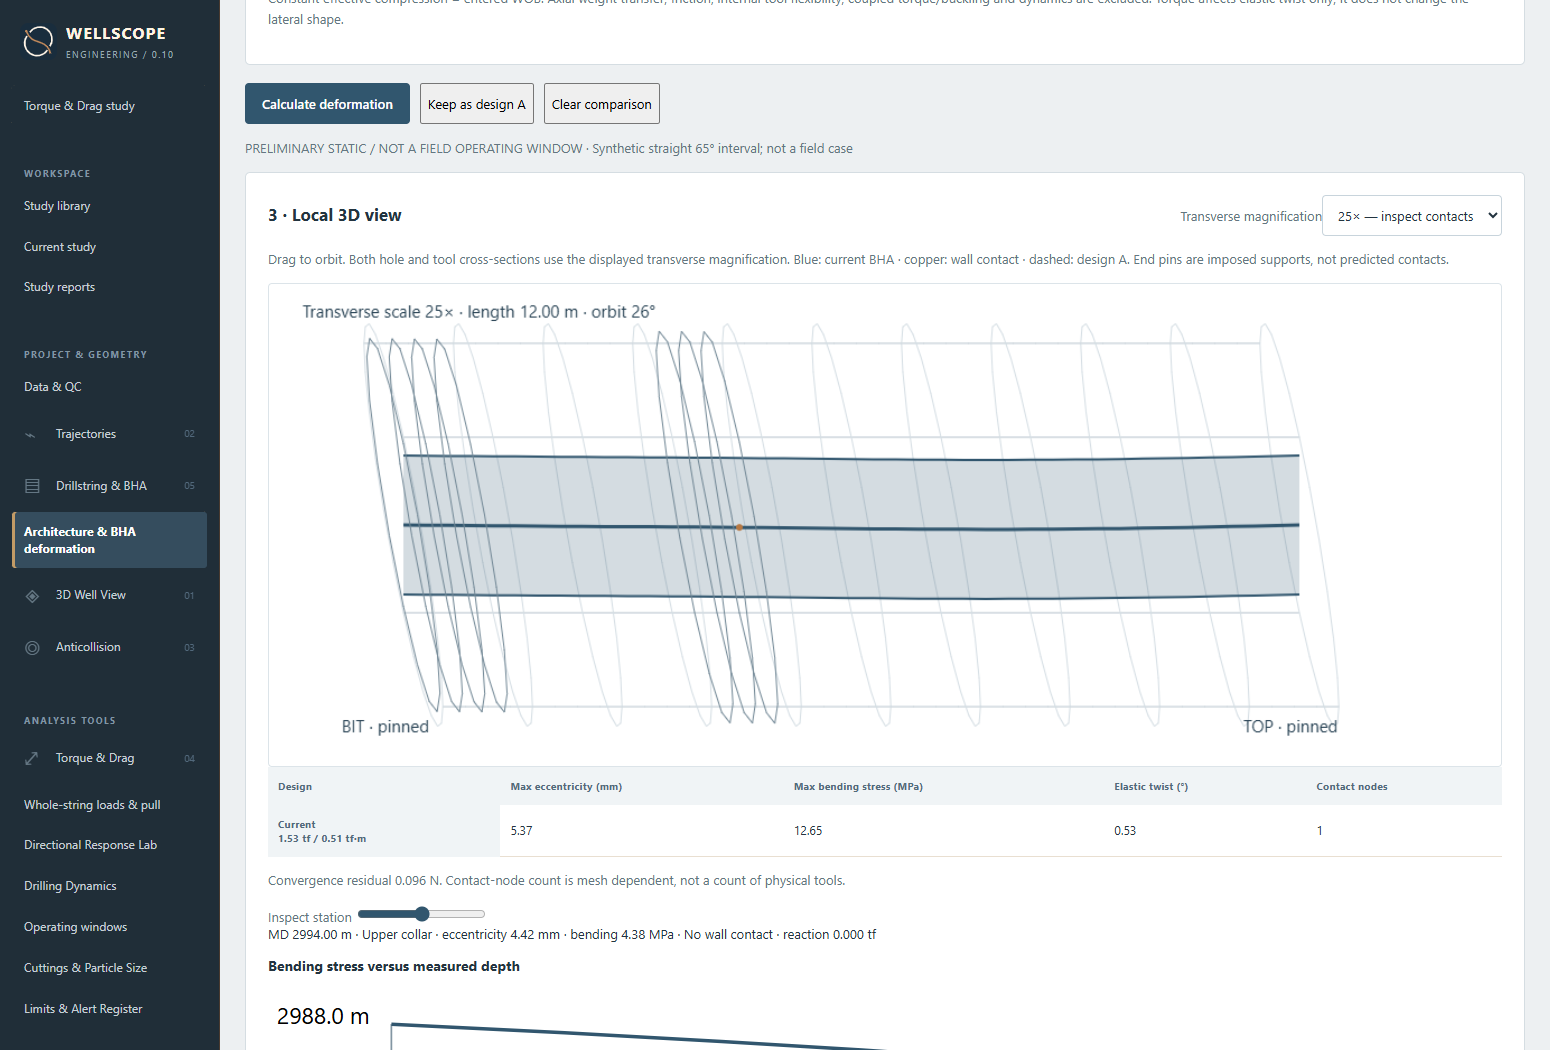
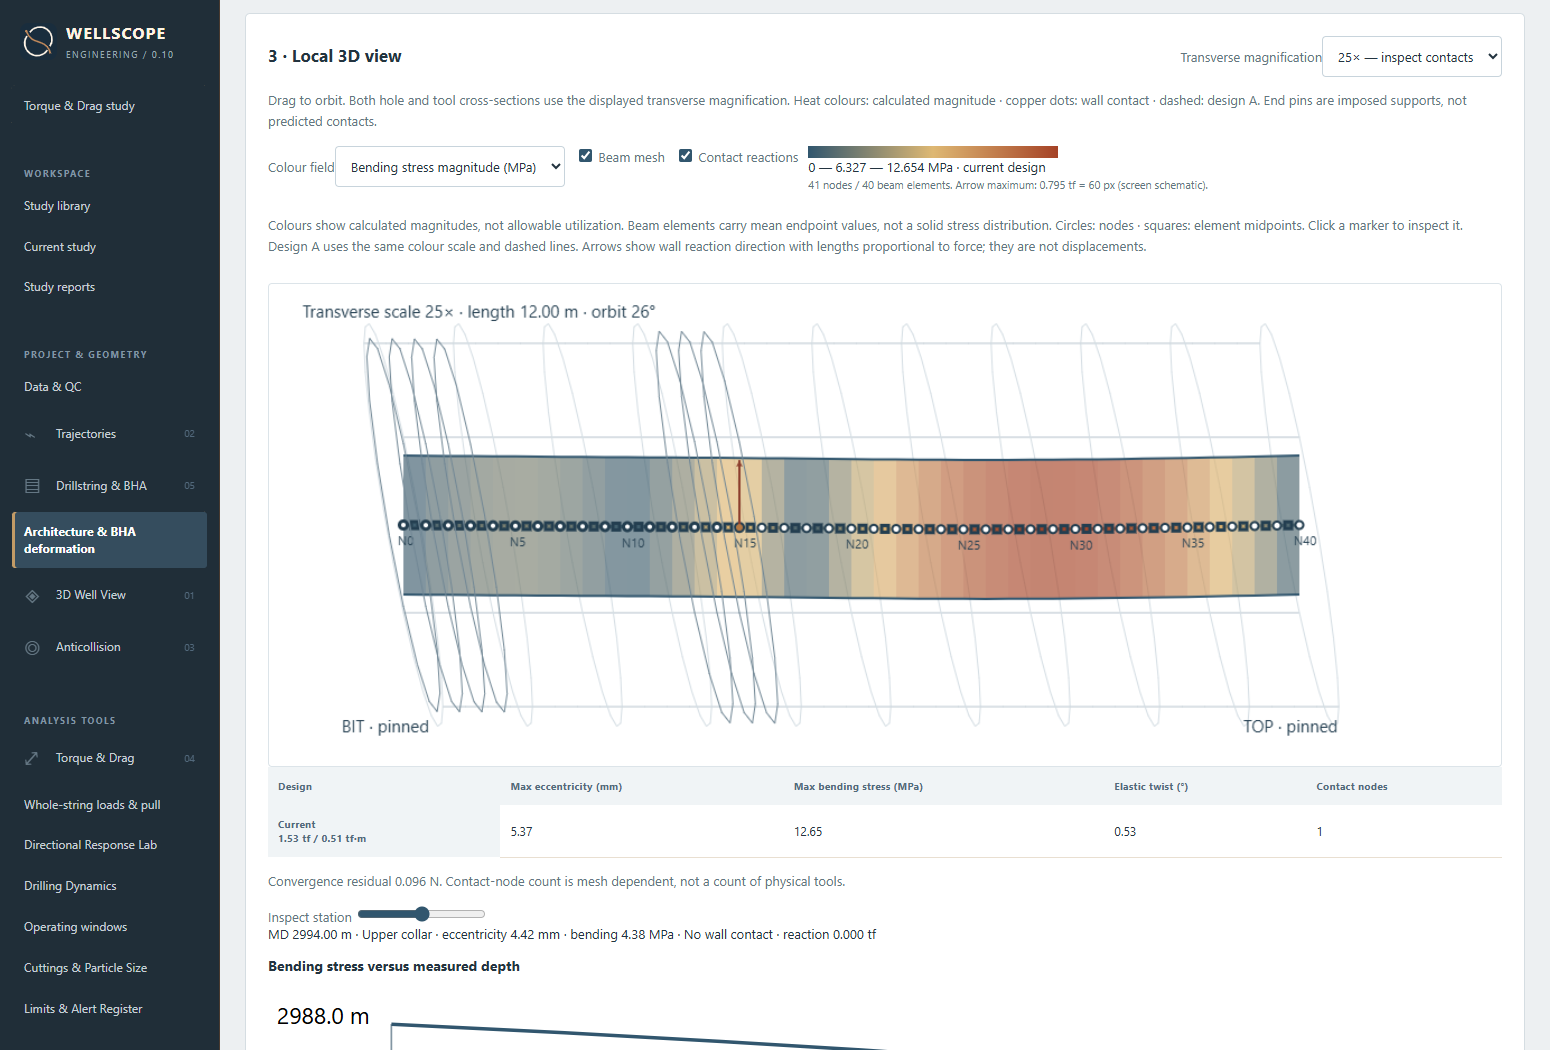
feat: visualize BHA stress fields, mesh and contact reactions

diff --git a/app/bha-static-workspace.js b/app/bha-static-workspace.js
@@ -65,9 +65,13 @@
   <article class="panel"><h2>1 · Well architecture</h2><p>Contiguous MD intervals from surface. Enter casing/liner internal diameter, or open-hole nominal/caliper diameter. This study has its own explicit architecture snapshot.</p><div id="bs-identity" class="workform"></div><div id="bs-architecture" class="tablebox"></div><button id="bs-section">Add section</button></article>
   <article class="panel"><h2>2 · BHA and loading</h2><p>Bit to top; equivalent uniform tube properties must be supplied for each tool. End positions are pinned to the well centre; end rotations are free. The model excludes the remainder of the drillstring.</p><div id="bs-controls" class="workform"></div><div id="bs-components" class="tablebox"></div><button id="bs-add">Add component</button><p>Constant effective compression = entered WOB. Axial weight transfer, friction, internal tool flexibility, coupled torque/buckling and dynamics are excluded. Torque affects elastic twist only; it does not change the lateral shape.</p></article>
   <div class="work-toolbar"><button id="bs-calc" class="primary">Calculate deformation</button><button id="bs-baseline" disabled>Keep as design A</button><button id="bs-clear">Clear comparison</button></div><p id="bs-state" role="status"></p><div id="bs-error" role="alert" class="error"></div>
-  <article class="panel"><div class="panel-title"><h2>3 · Local 3D view</h2><label>Transverse magnification<select id="bs-scale"><option value="1">1× — true scale</option><option value="10">10×</option><option value="25" selected>25× — inspect contacts</option></select></label></div><p>Drag to orbit. Both hole and tool cross-sections use the displayed transverse magnification. Blue: current BHA · copper: wall contact · dashed: design A. End pins are imposed supports, not predicted contacts.</p><canvas id="bs-canvas" width="1100" height="430" style="width:100%;background:#f5f7f8;touch-action:none" aria-label="Orbitable three-dimensional BHA deformation inside bore"></canvas><div id="bs-summary"></div><label>Inspect station <input id="bs-station" type="range" min="0" max="40" value="20"></label><div id="bs-inspect"></div><div id="bs-profile"></div></article>
+  <article class="panel"><div class="panel-title"><h2>3 · Local 3D view</h2><label>Transverse magnification<select id="bs-scale"><option value="1">1× — true scale</option><option value="10">10×</option><option value="25" selected>25× — inspect contacts</option></select></label></div><p>Drag to orbit. Both hole and tool cross-sections use the displayed transverse magnification. Heat colours: calculated magnitude · copper dots: wall contact · dashed: design A. End pins are imposed supports, not predicted contacts.</p><canvas id="bs-canvas" width="1100" height="430" style="width:100%;background:#f5f7f8;touch-action:none" aria-label="Orbitable three-dimensional BHA deformation inside bore"></canvas><div id="bs-summary"></div><label>Inspect station <input id="bs-station" type="range" min="0" max="40" value="20"></label><div id="bs-inspect"></div><div id="bs-profile"></div></article>
   <article class="panel"><h2>Interpretation and qualification</h2><p>This is a local, two-plane Euler–Bernoulli beam calculation with circular, frictionless contact constraints and a constant prescribed compressive force. It is not a whole-string stiff-string solver. Buckling regimes are rejected when the unconstrained tangent stiffness loses positive definiteness; post-buckling is not solved. No approved operating window is inferred.</p><p>The top and bit are ideal centred pins. Changing the modeled length changes those boundary conditions. Stabilizer contact uses an axisymmetric envelope; complex tools use your entered equivalent stiffness. Check mesh sensitivity before comparing contact forces. Survey interpolation cannot resolve unmeasured micro-tortuosity.</p><p>Rotational vibration, whirl, stick-slip, fatigue, rock/bit steering and DLS prediction require separate models. Geometry and boundary assumptions must be checked against an independent reference before field use.</p></article>`;
   document.querySelector(".content").append(page);
+  const viewControls = document.createElement("div");
+  viewControls.className = "work-toolbar";
+  viewControls.innerHTML = `<label>Colour field<select id="bs-field"><option value="bendingPa">Bending stress magnitude (MPa)</option><option value="momentNm">Bending moment magnitude</option><option value="offset">Eccentricity (mm)</option></select></label><label><input id="bs-mesh" type="checkbox" checked> Beam mesh</label><label><input id="bs-arrows" type="checkbox" checked> Contact reactions</label><div id="bs-legend" role="status"></div><p>Colours show calculated magnitudes, not allowable utilization. Beam elements carry mean endpoint values, not a solid stress distribution. Circles: nodes · squares: element midpoints. Click a marker to inspect it. Design A uses the same colour scale and dashed lines. Arrows show wall reaction direction with lengths proportional to force; they are not displacements.</p>`;
+  $("bs-canvas").before(viewControls);
   const nav = document.createElement("button");
   nav.className = "nav";
   nav.dataset.page = page.id;
@@ -183,7 +187,12 @@
     draw();
   }
   page.addEventListener("input", (e) => {
-    if (!["bs-scale", "bs-station"].includes(e.target.id)) invalidate();
+    if (
+      !["bs-scale", "bs-station", "bs-field", "bs-mesh", "bs-arrows"].includes(
+        e.target.id,
+      )
+    )
+      invalidate();
   });
   function prepare() {
     if (!input.name.trim() || !input.source.trim())
@@ -236,7 +245,7 @@
       $("bs-error").textContent = e.message;
     }
   }
-  const forceScale = () => forceUnit === "tf" ? 9806.65 : 1000;
+  const forceScale = () => (forceUnit === "tf" ? 9806.65 : 1000);
   function metrics(r) {
     return `<td>${(r.maxOffset * 1000).toFixed(2)}</td><td>${(r.maxBendingPa / 1e6).toFixed(2)}</td><td>${((r.twistRad * 180) / Math.PI).toFixed(2)}</td><td>${r.contacts}</td>`;
   }
@@ -269,8 +278,44 @@
         )}"/><text x="70" y="242">0 → ${max.toFixed(1)} MPa</text><text x="5" y="20">${(input.bitMD - input.length).toFixed(1)} m</text><text x="5" y="215">${input.bitMD.toFixed(1)} m</text></svg>`;
     inspect();
   }
+  let picked = null,
+    hitTargets = [];
+  const colourField = () => {
+    const k = $("bs-field").value;
+    return {
+      key: k,
+      unit:
+        k === "bendingPa" ? "MPa" : k === "offset" ? "mm" : forceUnit + "·m",
+      factor: k === "bendingPa" ? 1e6 : k === "offset" ? 0.001 : forceScale(),
+    };
+  };
+  const heatColour = (t) => {
+    t = Math.max(0, Math.min(1, t));
+    const stops = [
+        [49, 86, 110],
+        [222, 184, 115],
+        [165, 66, 38],
+      ],
+      j = t < 0.5 ? 0 : 1,
+      f = t < 0.5 ? t * 2 : (t - 0.5) * 2;
+    return `rgb(${stops[j].map((v, i) => Math.round(v + (stops[j + 1][i] - v) * f)).join(",")})`;
+  };
   function inspect() {
     if (!result) return;
+    if (picked) {
+      const rows = picked.design === "A" ? baseline?.result.rows : result.rows;
+      if (rows && rows[picked.i]) {
+        const a = rows[picked.i],
+          b = picked.kind === "element" ? rows[picked.i + 1] : a,
+          f = colourField();
+        if (b) {
+          $("bs-inspect").textContent =
+            `${picked.design} · ${picked.kind} ${picked.i} · MD ${a.md.toFixed(2)}${b !== a ? " → " + b.md.toFixed(2) : ""} m · ${a.name}${b.name !== a.name ? " / " + b.name : ""} · ${f.key}: ${((a[f.key] + b[f.key]) / 2 / f.factor).toFixed(3)} ${f.unit}${b !== a ? " (mean of endpoints)" : ""} · endpoint reaction ${(a.reactionN / forceScale()).toFixed(3)} ${forceUnit}${b !== a ? " / " + (b.reactionN / forceScale()).toFixed(3) + " " + forceUnit : ""} · ${a.x === 0 || picked.i === rows.length - 1 ? "Imposed pin" : a.contact ? "Wall contact" : "No wall contact"}`;
+          return;
+        }
+      }
+      picked = null;
+    }
     const r = result.rows[Math.min(input.n, +$("bs-station").value)];
     $("bs-inspect").textContent =
       `MD ${r.md.toFixed(2)} m · ${r.name} · eccentricity ${(r.offset * 1000).toFixed(2)} mm · bending ${(r.bendingPa / 1e6).toFixed(2)} MPa · ${r.x === 0 || r.x === input.length ? "Imposed end support" : r.contact ? "Wall contact" : "No wall contact"} · reaction ${(r.reactionN / forceScale()).toFixed(3)} ${forceUnit}`;
@@ -283,6 +328,9 @@
     g.font = "15px Segoe UI";
     g.fillStyle = "#536979";
     if (!result) {
+      hitTargets = [];
+      picked = null;
+      $("bs-legend").textContent = "No current calculated field";
       g.fillText("Calculate a valid study to view the deformation.", 35, 50);
       return;
     }
@@ -304,6 +352,23 @@
       g.stroke();
       g.setLineDash([]);
     };
+    const field = colourField(),
+      comparison = baseline && input.overlayCompatible;
+    const allRows = [
+      ...result.rows,
+      ...(comparison ? baseline.result.rows : []),
+    ];
+    const fieldMax = Math.max(
+      0,
+      ...allRows.map((r) => r[field.key] / field.factor),
+    );
+    const maxReaction = Math.max(
+      0,
+      ...allRows.filter((r) => r.contact).map((r) => r.reactionN),
+    );
+    $("bs-legend").innerHTML =
+      `<div style="width:250px;height:12px;background:linear-gradient(90deg,${heatColour(0)},${heatColour(0.5)},${heatColour(1)})"></div><span>0 — ${(fieldMax / 2).toFixed(3)} — ${fieldMax.toFixed(3)} ${field.unit} · ${comparison ? "shared current / A" : "current design"}${fieldMax === 0 ? " · zero field" : ""}</span><br><small>${result.rows.length} nodes / ${result.rows.length - 1} beam elements${comparison ? " · A: " + baseline.result.rows.length + " nodes" : ""}. Arrow maximum: ${(maxReaction / forceScale()).toFixed(3)} ${forceUnit} = 60 px (screen schematic).</small>`;
+    hitTargets = [];
     for (let side = 0; side < 4; side++) {
       const a = (side * Math.PI) / 2;
       line(
@@ -324,38 +389,118 @@
         ]),
         "#d4dde3",
       );
-    if (baseline && input.overlayCompatible)
-      line(
-        baseline.result.rows.map((r) => [r.x, ...r.u]),
-        "#927052",
-        2,
-        [6, 4],
-      );
-    const outline = [
-      ...result.rows.map((r) => [r.x, r.u[0], r.u[1] - r.od / 2]),
-      ...result.rows
-        .slice()
-        .reverse()
-        .map((r) => [r.x, r.u[0], r.u[1] + r.od / 2]),
-    ];
-    g.beginPath();
-    outline.forEach((p, i) =>
-      i ? g.lineTo(...project(...p)) : g.moveTo(...project(...p)),
-    );
-    g.closePath();
-    g.fillStyle = "#31566e35";
-    g.fill();
+    function renderDesign(rows, design) {
+      rows.slice(0, -1).forEach((a, i) => {
+        const b = rows[i + 1],
+          value = (a[field.key] + b[field.key]) / 2 / field.factor,
+          col = heatColour(fieldMax ? value / fieldMax : 0);
+        if (design === "Current") {
+          const quad = [
+            [a.x, a.u[0], a.u[1] - a.od / 2],
+            [b.x, b.u[0], b.u[1] - b.od / 2],
+            [b.x, b.u[0], b.u[1] + b.od / 2],
+            [a.x, a.u[0], a.u[1] + a.od / 2],
+          ];
+          g.beginPath();
+          quad.forEach((p, j) =>
+            j ? g.lineTo(...project(...p)) : g.moveTo(...project(...p)),
+          );
+          g.closePath();
+          g.globalAlpha = 0.65;
+          g.fillStyle = col;
+          g.fill();
+          g.globalAlpha = 1;
+        }
+        line(
+          [
+            [a.x, ...a.u],
+            [b.x, ...b.u],
+          ],
+          col,
+          design === "A" ? 5 : 3,
+          design === "A" ? [4, 4] : [],
+        );
+        if ($("bs-mesh").checked) {
+          const q = project(
+            (a.x + b.x) / 2,
+            (a.u[0] + b.u[0]) / 2,
+            (a.u[1] + b.u[1]) / 2,
+          );
+          g.fillStyle = col;
+          g.fillRect(q[0] - 3, q[1] - 3, 6, 6);
+          g.strokeStyle = "#233e50";
+          g.strokeRect(q[0] - 3, q[1] - 3, 6, 6);
+          hitTargets.push({ q, design, kind: "element", i });
+        }
+      });
+      rows.forEach((r, i) => {
+        const q = project(r.x, ...r.u);
+        if ($("bs-mesh").checked) {
+          g.beginPath();
+          g.arc(...q, 3.5, 0, 2 * Math.PI);
+          g.fillStyle = design === "A" ? "#fff5e8" : "#fff";
+          g.fill();
+          g.strokeStyle = "#233e50";
+          g.stroke();
+          hitTargets.push({ q, design, kind: "node", i });
+          if (i % 5 === 0 || i === rows.length - 1) {
+            g.font = "11px Segoe UI";
+            g.fillStyle = "#233e50";
+            g.fillText(
+              (design === "A" ? "A" : "N") + i,
+              q[0] - 5,
+              q[1] + (design === "A" ? -12 : 18),
+            );
+          }
+        }
+        if ($("bs-arrows").checked && r.contact && r.reactionN > 0) {
+          const v = r.reactionVectorN,
+            tip = project(
+              r.x,
+              r.u[0] + v[0] / r.reactionN,
+              r.u[1] + v[1] / r.reactionN,
+            ),
+            dx = tip[0] - q[0],
+            dy = tip[1] - q[1],
+            norm = Math.hypot(dx, dy);
+          if (norm > 1e-7) {
+            const length = (60 * r.reactionN) / (maxReaction || 1),
+              x = q[0] + (dx / norm) * length,
+              y = q[1] + (dy / norm) * length,
+              theta = Math.atan2(dy, dx);
+            g.strokeStyle = "#8c3e2d";
+            g.lineWidth = 2;
+            g.setLineDash(design === "A" ? [3, 3] : []);
+            g.beginPath();
+            g.moveTo(...q);
+            g.lineTo(x, y);
+            g.stroke();
+            g.setLineDash([]);
+            g.beginPath();
+            g.moveTo(x, y);
+            g.lineTo(
+              x - 6 * Math.cos(theta - 0.45),
+              y - 6 * Math.sin(theta - 0.45),
+            );
+            g.lineTo(
+              x - 6 * Math.cos(theta + 0.45),
+              y - 6 * Math.sin(theta + 0.45),
+            );
+            g.closePath();
+            g.fillStyle = "#8c3e2d";
+            g.fill();
+          }
+        }
+      });
+    }
+    renderDesign(result.rows, "Current");
+    if (comparison) renderDesign(baseline.result.rows, "A");
     for (let s of [-1, 1])
       line(
         result.rows.map((r) => [r.x, r.u[0], r.u[1] + (s * r.od) / 2]),
         "#31566e",
         2,
       );
-    line(
-      result.rows.map((r) => [r.x, ...r.u]),
-      "#31566e",
-      3,
-    );
     for (const r of result.rows) {
       if (r.contactOD > r.od + 0.001)
         line(
@@ -376,6 +521,27 @@
       }
     }
     g.fillStyle = "#233e50";
+    g.font = "15px Segoe UI";
+    if (picked && $("bs-mesh").checked) {
+      const rows =
+        picked.design === "A" && comparison
+          ? baseline.result.rows
+          : result.rows;
+      const a = rows[picked.i],
+        b = picked.kind === "element" ? rows[picked.i + 1] : a;
+      if (a && b) {
+        const q = project(
+          (a.x + b.x) / 2,
+          (a.u[0] + b.u[0]) / 2,
+          (a.u[1] + b.u[1]) / 2,
+        );
+        g.beginPath();
+        g.arc(...q, 8, 0, Math.PI * 2);
+        g.strokeStyle = "#101f29";
+        g.lineWidth = 2;
+        g.stroke();
+      }
+    }
     g.fillText("BIT · pinned", 65, 400);
     g.fillText("TOP · pinned", 870, 400);
     g.fillText(
@@ -527,21 +693,57 @@
     e.target.value = "";
   };
   $("bs-scale").onchange = draw;
-  $("bs-station").oninput = inspect;
+  for (const id of ["bs-field", "bs-mesh", "bs-arrows"]) $(id).onchange = draw;
+  $("bs-station").oninput = () => {
+    picked = null;
+    inspect();
+  };
   let drag = null;
+  let pointerStart = null,
+    moved = false;
   $("bs-canvas").onpointerdown = (e) => {
     drag = e.clientX;
+    pointerStart = [e.clientX, e.clientY];
+    moved = false;
     e.target.setPointerCapture(e.pointerId);
   };
   $("bs-canvas").onpointermove = (e) => {
     if (drag !== null) {
+      if (
+        Math.hypot(e.clientX - pointerStart[0], e.clientY - pointerStart[1]) > 4
+      )
+        moved = true;
       angle += (e.clientX - drag) * 0.01;
       drag = e.clientX;
       draw();
     }
   };
-  $("bs-canvas").onpointerup = $("bs-canvas").onpointercancel = () =>
-    (drag = null);
+  $("bs-canvas").onpointerup = (e) => {
+    if (!moved && result && $("bs-mesh").checked) {
+      const rect = e.target.getBoundingClientRect(),
+        x = ((e.clientX - rect.left) * e.target.width) / rect.width,
+        y = ((e.clientY - rect.top) * e.target.height) / rect.height;
+      let best = null,
+        distance = 12;
+      for (const t of hitTargets) {
+        const d = Math.hypot(t.q[0] - x, t.q[1] - y);
+        if (d < distance) {
+          best = t;
+          distance = d;
+        }
+      }
+      if (best) {
+        picked = best;
+        draw();
+      }
+    }
+    drag = null;
+    pointerStart = null;
+  };
+  $("bs-canvas").onpointercancel = () => {
+    drag = null;
+    pointerStart = null;
+  };
   window.BhaStaticWorkspace = {
     snapshot: () => clone({ input, result, baseline }),
     demo,

diff --git a/docs/BHA-STATIC.md b/docs/BHA-STATIC.md
@@ -25,3 +25,13 @@ Bending moment is EI times discrete curvature, bending stress is E times curvatu
 `tests/browser-bha-static.cjs`: worked example, baseline preservation, dirty-result invalidation, local save/load, unstable-case removal, browser errors and screenshot. These are analytical/software checks, not field validation or a matched DrillScan benchmark.
 
 Industry scope reference: [H&P DrillScan engineering overview](https://www.helmerichpayne.com/media/product-literature/Drilling-Engineering.pdf). Its whole-string stiff-string, modal and bit/BHA capabilities exceed this local prototype. Do not equate the two.
+
+## Beam heat map and mesh inspection
+
+The local view colours each beam interval using the arithmetic mean of its two endpoint values: bending-stress magnitude (MPa), bending-moment magnitude (selected force unit × m), or eccentricity (mm). This is a beam-result display, not a through-wall or circumferential solid stress field. No yield utilization or safe/unsafe colours are inferred.
+
+The legend spans zero to the maximum nodal value across the current design and the compatible design A. Changing the field or view controls does not recalculate or invalidate mechanics. Incompatible geometry disables A's overlay and excludes it from the colour scale. Current and A may use different mesh densities. Switching force units updates moment and reaction units without changing SI inputs.
+
+Enable Beam mesh to show circles at nodes, square element-midpoint targets and node labels. Click a target for the design identity, node/element index, MD, selected scalar and endpoint reactions. Dragging orbits without selecting. The depth slider returns inspection to the current design's nodes. Contact arrows use the computed two-plane reaction vector projected into the view, and lengths proportional to force on a shared 60-pixel maximum; they are schematic force glyphs, not displacement vectors. End-pin reactions remain available in inspection but are not drawn as wall contacts. Reactions aligned with the viewing direction may project to zero.
+
+Browser regression checks cover common A/B colour range, units, view-control invariance and clicking an element in the projected canvas.
